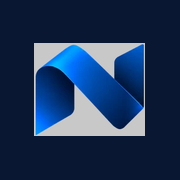
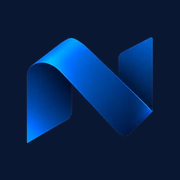
NEX: ícone do app e da aba corrigido (símbolo da NEXUM sem o fundo cinza)
Claude-Session: https://claude.ai/code/session_01YBEGeXymmtkSNeFMrzLUUZ

Changed region(s): [[0.1389, 0.1944, 0.8611, 0.8056]]

diff --git a/nex-sw.js b/nex-sw.js
@@ -1,5 +1,5 @@
 // NEX: guarda a tela para abrir rápido; os números sempre vêm da internet
-const C = 'nex-v4', BASE = ['nex.html', 'nex.webmanifest', 'nex-192.png', 'nex-512.png', 'nex-logo.webp', 'nex-marca.webp'];
+const C = 'nex-v5', BASE = ['nex.html', 'nex.webmanifest', 'nex-192.png', 'nex-512.png', 'nex-logo.webp', 'nex-marca.webp'];
 self.addEventListener('install', e => { self.skipWaiting(); e.waitUntil(caches.open(C).then(c => c.addAll(BASE)).catch(() => { })); });
 self.addEventListener('activate', e => e.waitUntil(caches.keys().then(ks => Promise.all(ks.filter(k => k.startsWith('nex-') && k !== C).map(k => caches.delete(k)))).then(() => self.clients.claim())));
 self.addEventListener('fetch', e => { const u = new URL(e.request.url); if (e.request.method !== 'GET' || u.origin !== location.origin || !BASE.some(b => u.pathname.endsWith('/' + b))) return;

diff --git a/nex.html b/nex.html
@@ -7,7 +7,7 @@
 <link rel="apple-touch-icon" href="nex-180.png">
 <meta name="apple-mobile-web-app-capable" content="yes">
 <meta name="apple-mobile-web-app-title" content="NEX">
-<link rel="icon" href="nex-192.png">
+<link rel="icon" type="image/png" sizes="32x32" href="nex-32.png"><link rel="icon" type="image/png" sizes="192x192" href="nex-192.png">
 <link href="https://fonts.googleapis.com/css2?family=Inter:wght@400;500;600;700;800&display=swap" rel="stylesheet">
 <script src="https://www.gstatic.com/firebasejs/10.12.2/firebase-app-compat.js"></script>
 <script src="https://www.gstatic.com/firebasejs/10.12.2/firebase-auth-compat.js"></script>
